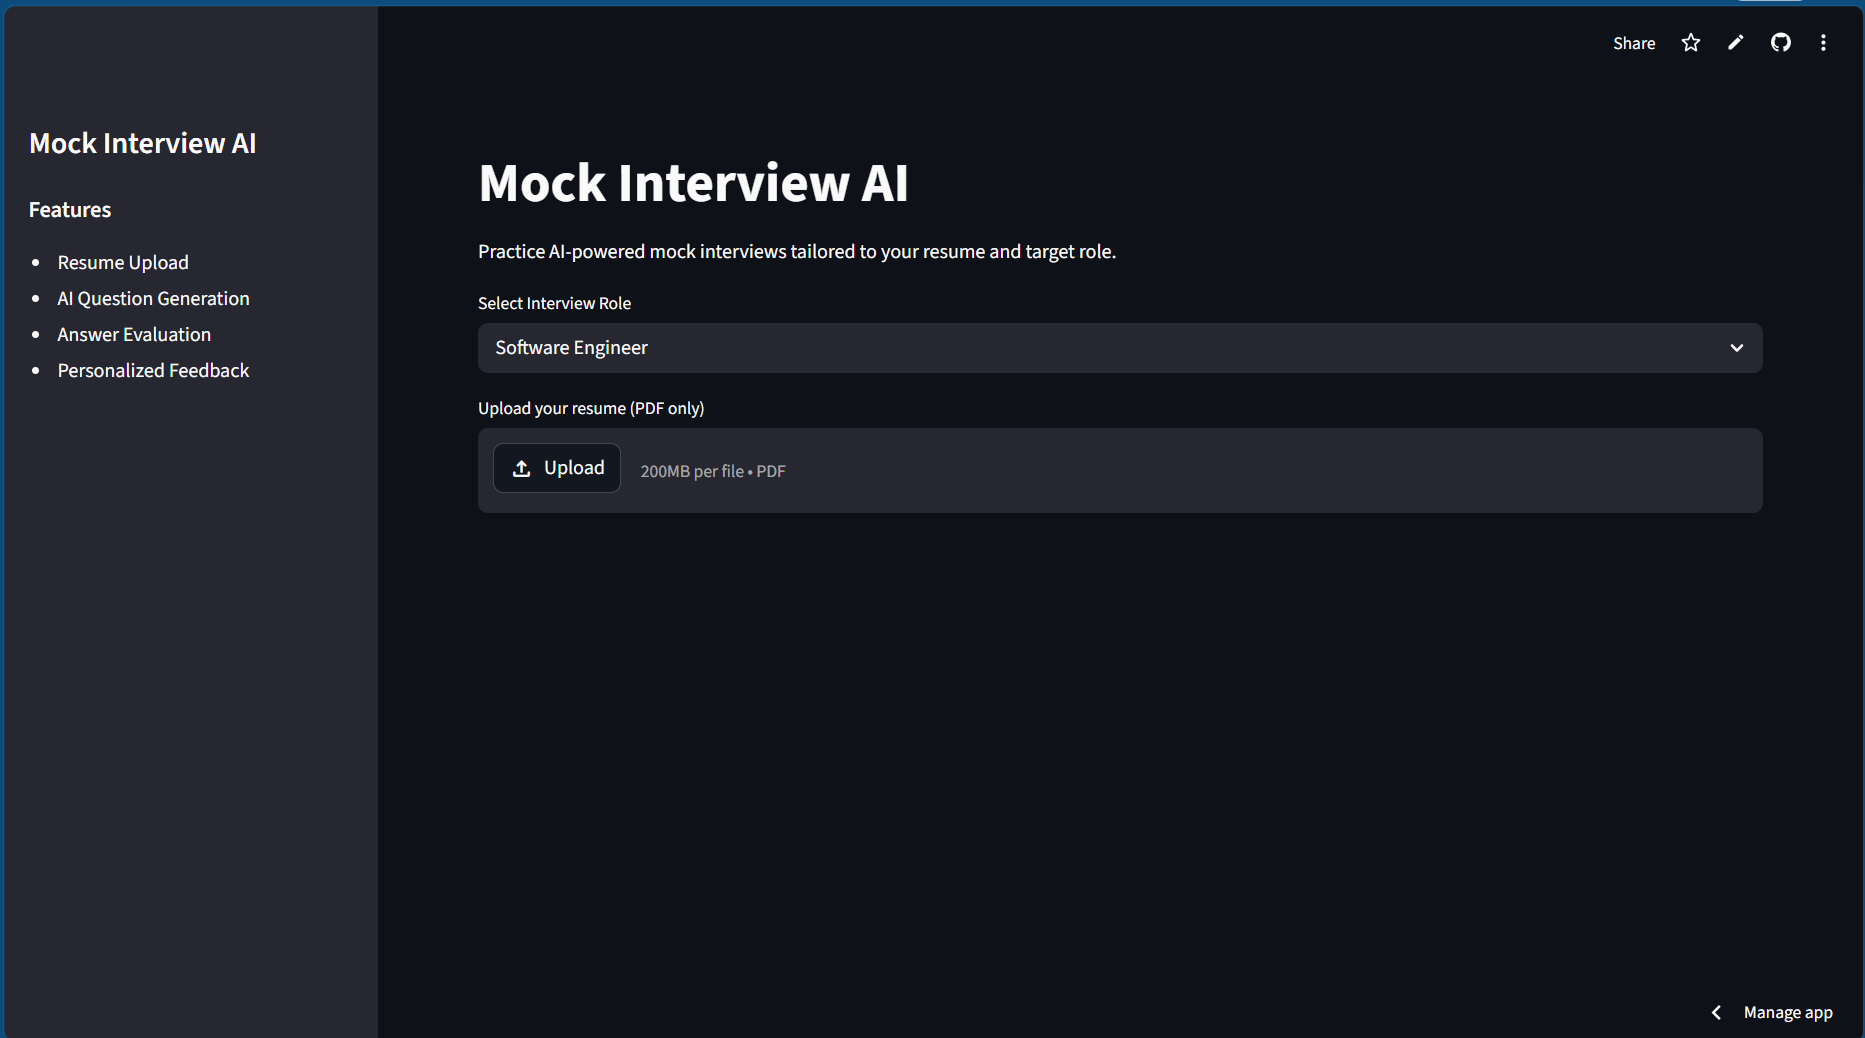
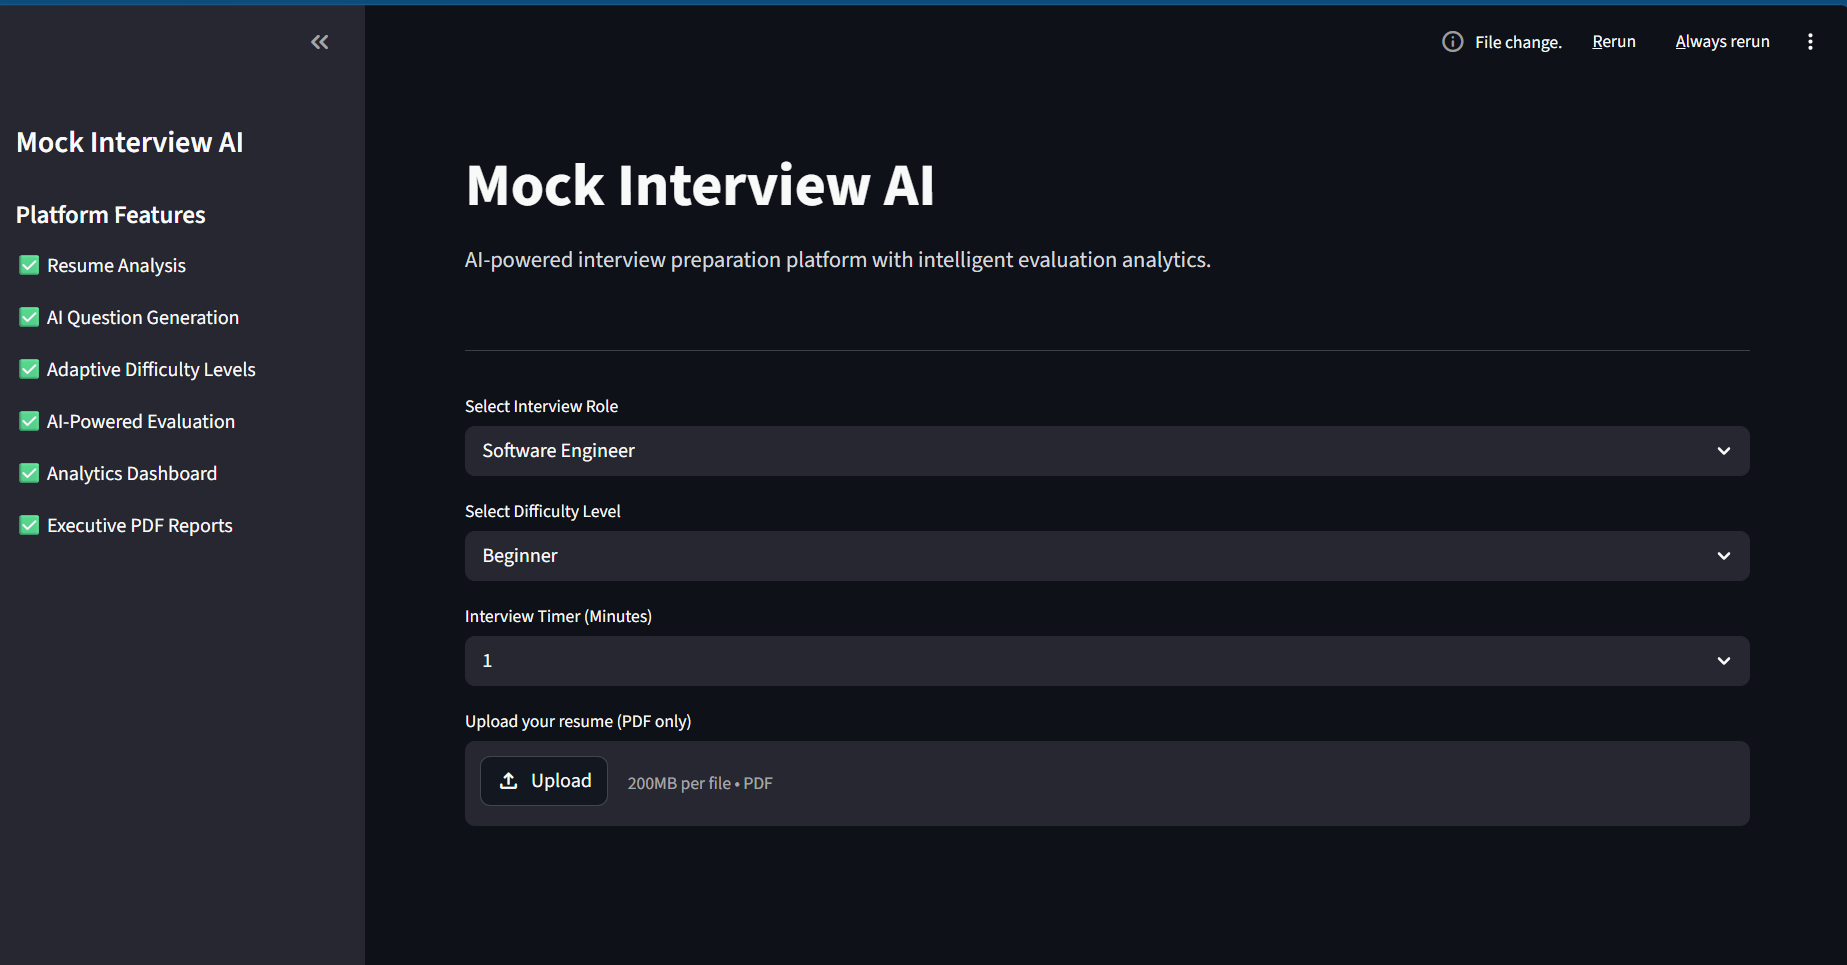
Added AI-powered interview analytics dashboard and enhanced PDF reporting

diff --git a/README.md b/README.md
@@ -62,15 +62,24 @@ mock-interview-ai/
 
 ### Questions
 
-![Questions](assets/questions.png)
+![Questions](assets/ev1.png)
 
 ### Evaluation
 
-![Evaluation](assets/evaluation.png)
+![Evaluation](assets/ev2.png)
 
-### PDF Report
+### Evaluation
 
-![Report](assets/report.png)
+![Evaluation](assets/ev3.png)
+
+### PDF Report1
+
+![Report](assets/report1.png)
+
+### PDF Report2
+
+![Report](assets/report2.png)
+
 
 ---
 
